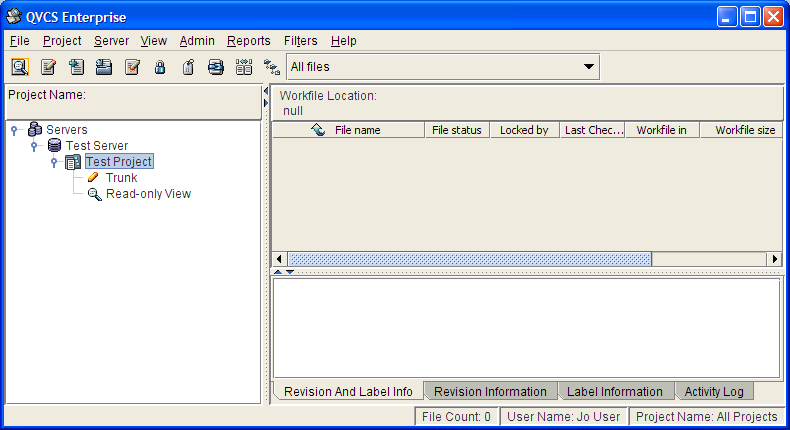
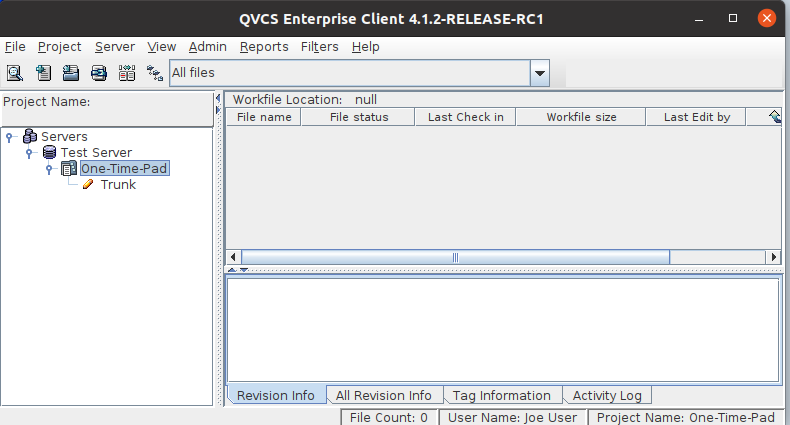
Documentation updates.

diff --git a/qvcse-server/src/main/resources/ServerWebSite/getstarted/clientbasics2.html b/qvcse-server/src/main/resources/ServerWebSite/getstarted/clientbasics2.html
@@ -20,7 +20,7 @@
                                 <hr>
                                 <h2><a name="add"></a>Adding Files to the Project</h2>
                                 <p>Before you can work with the files of your project, you need to make sure they are under version control. This may not have been done yet in the case of a new project. For the sake of this tutorial, let's say no one else has yet worked on your project.</p>
-                                <p>Since you provided a location for your work files in the previous step, any files in that directory will now show up in the file list pane on the right side of the window, each with a <img src="../images/fileuncontrl.png" alt="uncontrolled"> icon to show that they are not under version control.</p>
+                                <p>Since you provided a location for your work files in the previous step, any files in that directory will now show up in the file list pane on the right side of the window, each with a <img src="../images/workfile.png" alt="uncontrolled"> icon to show that they are not under version control.</p>
                                 <p>To add a selected file or group of files to the project, you can simply click the Add File <img src="../images/smadd.png" alt="Add File"> toolbar icon, and Enterprise will add the file(s) to the project without prompting you for any information. However, in the case of a new project, this method can prove tedious. Instead, right click on the Trunk, and select <b>Auto-Add Files/Directories...</b> from the context menu. This will bring up the following dialog:</p>
                                 <p align="center"><img src="../images/autoAddFilesToProject.png" alt="Auto-Add Files/Directories"></p>
                                 <p>Leaving the dialog blank will cause Enterprise to add only the files in the selected directory to the project. Probably, you will want to enable the first two checkboxes, causing Enterprise to add any subdirectories and their files to the project. Doing so will result in a project tree hierarchy that mimicks the hierarchy of the work file directory you've defined. You may also want to filter the process by file extension. These two checkboxes are mutually exclusive; enabling "Include Extensions" will allow you to list only those file extensions you want added to the project, while enabling "Exclude Extensions" will allow you to prevent Enterprise from adding the specified file extensions.</p>
@@ -28,14 +28,16 @@
                                 <p>Note that you can have Enterprise show a colored icon <img src="../images/filegreen.png" alt="green"> by going into the <b>Admin&rarr;User Preferences...</b> dialog and selecting "Use colored icons in file list" on the <b>Appearance</b> tab. The benefit of this is that if your copy of the work file is missing or otherwise out-of-synch with the latest revision on the server, Enterprise will display a <img src="../images/fileyellow.png" alt="yellow"> icon.</p>
                                 <hr>
                                 <h2><a name="display"></a>Looking at the New Project Files</h2>
-                                <p>Now that you have some <a href="../docs/glossary.html#archive">archive files</a> to work with, let's take a look at what Enterprise can tell you about your project.</p>
+                                <p>Now that you have some files to work with, let's take a look at what Enterprise can tell you about your project.</p>
                                 <p>You should already be somewhat familiar with the project and file panes of the window. In the file pane, you'll notice that in addition to the file name and icon, Enterprise will give you some basic information about the file's status. The "<a href="../docs/understandingFileStatus.html">File status</a>" column will tell you how your copy of the work file compares to the latest revision stored on the server; at the moment, all your files should read as "Current," meaning they are in synch with what's on the server. For each file, Enterprise will also list the last check-in time and the user who last edited the file; in this case, it should display your QVCS username and the time at which you added the files to the project, creating their initial revision.</p>
                                 <p>You can sort the files in the file pane based on any one of the columns by clicking on the column header. Clicking it again will reverse the sort order. For example, clicking on the "Last Check in" column will sort the files based on when their latest revision was checked in (though at this point there shouldn't be much difference).</p>
                                 <p>Another useful feature of the file pane is directory recursion. The recurse toolbar icon toggles between listing only those files in the current directory (when displaying the <img src="../images/smnorecurse.png" alt="no recurse"> icon), and listing all files in both the current directory and all of its subdirectories (when displaying the <img src="../images/smrecurse.png" alt="recurse"> icon). Recursion is useful when you want to get a quick look at what has changed within your project.</p>
-                                <p>Select one of your project files. In the revision information pane, you should see a single 1.0 revision entry. This is the revision that was created when you added the file to the project. Enterprise will also list information about when the revision was created and by whom. Each project file will have an "Initial Revision" listed in its revision information. Any <a href="../docs/glossary.html#label">labels</a> you apply to a file's revisions will also show up here.</p>
-                                <p>The "Revision Information" tab will show only the revision information, in selectable text format. This is the information that Enterprise uses when it generates a report. You can create an HTML file containing revision information for your project by selecting <b>Reports&rarr;Generate Report</b> from the menu bar. This will automatically create a simply-formatted HTML file listing the revision information of each file in the selected project. Any <a href="../docs/understandingFilters.html">filters</a> you have active will also filter the information in the report.</p>
-                                <p>The "Label Information" tab will show a list of who has applied what label to which revision. Finally, the "Activity Log" tab just shows the client-side requests and communication with the server.</p>
-                                <p>Naturally, these information fields will look a little sparse since you haven't yet done anything with your archive files. Let's move on to check out a file and store a revision.</p>
+                                <p>Select one of your project files. In the revision information pane, you should see a single 1.0 revision entry. This is the revision that was created when you added the file to the project. Enterprise will also list information about when the revision was created and by whom.</p>
+                                <p>The "Revision Info" tab will show only the revision information for the selected branch, in selectable text format. This is the information that Enterprise uses when it generates a report. You can create an HTML file containing revision information for your project by selecting <b>Reports&rarr;Generate Report</b> from the menu bar. This will automatically create a simply-formatted HTML file listing the revision information of each file in the selected project. Any <a href="../docs/understandingFilters.html">filters</a> you have active will also filter the information in the report.</p>
+                                <p>The "All Revision Info" tab will show a list of all revisions to the selected file across <i>all</i> branches.</p>
+                                <p>The "Tag Information" tab will show a list of all tags that have been applied to the selected branch.</p>
+                                <p>Finally, the "Activity Log" tab just shows the client-side requests and communication with the server.</p>
+                                <p>Naturally, these information fields will look a little sparse since you haven't yet done anything with your files. Let's move on to edit a file and store the file changes.</p>
                                 <hr>
                                 <p align="center"><a href="clientbasics1.html">&laquo; Previous</a> - <a href="clientbasics3.html">Next &raquo;</a></p>
                             </td></tr>

diff --git a/qvcse-server/src/main/resources/ServerWebSite/getstarted/clientbasics3.html b/qvcse-server/src/main/resources/ServerWebSite/getstarted/clientbasics3.html
@@ -18,21 +18,12 @@
                     <table class="content" cellspacing=0><tr class="content"><td class="content">
                                 <h1>QVCS Enterprise Tutorial: Client Application Basics</h1>
                                 <hr>
-                                <h2><a name="get"></a>Retrieving a Revision from a QVCS Archive</h2>
-                                <p>Let's first familiarize ourselves with the most basic QVCS tool: the get operation. When you perform a get on a file, the client will retrieve the requested revision from the associated QVCS archive on the server and save that to your copy of the work file. You will use this operation most frequently when updating your copy of a project file which another member of your team has been working on. You can also use it to obtain a copy of an older revision stored in the archive.</p>
-                                <p>Since you just added your files to the project, all of them are up-to-date, so you'll have to delete one of them in order to see that Enterprise does anything. Using Explorer or Finder, delete one of the files in your project.</p>
-                                <p>Go back to the client application and hit F5 to refresh the display. The file status of your file should now read as "Missing," to show that Enterprise cannot find the associated work file. However, it still has a copy of the file in its archives. To retrieve this copy, select the missing file and click the Get File <img src="../images/smget.png" alt="get"> toolbar icon. The client will fetch the latest revision (in this case the only revision, 1.0) from the server and copy it to the work file location. The file status will return to "Current." You can confirm that Enterprise retrieved the file using Explorer.</p>
-                                <p>As it's assumed you'll most often use the get operation to update your work files, performing a get from the toolbar will not bring up a dialog. To fetch any older revision from an archive, select <b>Get...</b> from either the <b>File</b> menu or the context menu that appears when you right click on a file.</p>
-                                <p>The get operation is also one of a few that Enterprise can perform on a project-wide level. If you need to update a number of files, or want to retrieve a labeled set of files, you can right click on a project node or directory and select <b>Get...</b> from the context menu. This will bring up a dialog allowing you to fetch the desired group of revisions.</p>
-                                <hr>
-                                <h2><a name="label"></a>Labeling a Set of Revisions</h2>
-                                <p>The other major operation you can perform at the project-level is <a href="../docs/understandingTags.html">labeling</a>. Labeling is a way of grouping together a set of files or revisions. For example, if you wanted to group all the revisions that made up release 2.1 of your product, you could apply a "2.1 release" label to these revisions. This is useful if you need to retrieve that same set of revisions at a later time, say if you need to create a patch build. You may have already started work on features for a later release, so you wouldn't want those changes to go into your patch build. Thus, you'd retrieve your labeled revision set, edit those files which needed fixing, and create your patch build based on the labeled revisions.</p>
-                                <p>Let's apply a label to the files you added to your project earlier. To use labels on a project-wide scale, right click on the project node or directory and select <b>Apply Label...</b> from the context menu. Doing so will bring up the following dialog:</p>
-                                <p align="center"><img src="../images/applyLabel.png" alt="Apply Label"></p>
-                                <p>Enabling the "Recurse Directories" checkbox will cause Enterprise to apply the label to any files it finds in any subdirectories of your project. When you enable the checkbox, you'll notice that the file pane display changes to show a recursed view. Enter an appropriate label string and click OK. Now if you select any of the files in your project, you'll see the label you just defined in the revision information pane.</p>
-                                <p>Note that this label is anchored to the 1.0 revision of each archive (since this is the revision currently in use for each archive). As you add other revisions to your archives, this label will remain with the 1.0 revision. If you wanted the label to move so that it would remain with the most recent revision in each archive, you would apply a <i>floating</i> label. This could be useful if you wanted to group together a set of files belonging to a release you were still developing.</p>
-                                <p>You can apply labels to individual files in a few different ways. The simplest is to select the file and use the Label File <img src="../images/smlabel.png" alt="label"> toolbar button. You can also elect to apply a label to a revision as you check it in.</p>
-
+                                <h2><a name="get"></a>Retrieving a Revision</h2>
+                                <p>Let's first familiarize ourselves with the most basic QVCS operation: the get operation. When you perform a 'get' on a file, the client will retrieve the requested revision from the server and save that revision to your copy of the work file. You will use this operation most frequently when updating your copy of a project file which another member of your team has been working on. You can also use it to obtain a copy of an older file revision stored in the database.</p>
+                                <p>Since you just added your files to the project, all of them are up-to-date, so you'll have to delete one of them in order to see that Enterprise does anything. To do this, select a file, right click to get the context menu, and then choose the 'Delete Workfile...' menu option. Select 'Yes' on the resulting dialog.</p>
+                                <p>Select the View/Refresh menu option to refresh the display. The file status of your file should now read as "Missing," to show that Enterprise cannot find the associated work file. However, it still has a copy of the file in the database. To retrieve this copy, select the missing file and click the Get File <img src="../images/smget.png" alt="get"> toolbar icon. The client will fetch the latest revision (in this case the only revision, 1.0) from the server and copy it to the work file location. The file status will return to "Current."</p>
+                                <p>As it's assumed you'll most often use the get operation to update your work files, performing a get from the toolbar will not bring up a dialog. To fetch any older revision from the server, select <b>Get...</b> from either the <b>File</b> menu or the context menu that appears when you right click on a file.</p>
+                                <p>The get operation is also one of a few that Enterprise can perform on a project-wide or directory level. If you need to update a number of files, you can right click on a project node or directory and select <b>Get...</b> from the context menu. This will bring up a dialog allowing you to get the files.</p>
                                 <hr>
                                 <p align="center"><a href="clientbasics2.html">&laquo; Previous</a> - <a href="clientbasics4.html">Next &raquo;</a></p>
                             </td></tr>

diff --git a/qvcse-server/src/main/resources/ServerWebSite/docs/understandingFilters.html b/qvcse-server/src/main/resources/ServerWebSite/docs/understandingFilters.html
@@ -22,7 +22,7 @@
                                 <p>Selecting that menu option will display the 'Maintain Filter Collections' dialog shown here:</p>
                                 <p align="center"><img src="../images/maintainFilters.png" alt="maintain filters"></p>
                                 <p>Filters are always applied at the client. This means that the server always sends information on all the files within a selected directory to the client and the client, based on the active filter, decides whether information about that file should be displayed or not.</p>
-                                <p>There are 4 'built-in' filter collections. You are not allowed to edit the 'All files' filter collection. You create your own filter collection by clicking on the 'New Collection' button. You can name your filter collection any thing you want, provided that filter collection name is not already in use. Clicking the 'New Collection' button will display the 'Define Filter Collection Name' dialog:</p>
+                                <p>There are 5 'built-in' filter collections. You are not allowed to edit the 'All files' filter collection or the 'By Commit id' filter. You create your own filter collection by clicking on the 'New Collection' button. You can name your filter collection any thing you want, provided that filter collection name is not already in use. Clicking the 'New Collection' button will display the 'Define Filter Collection Name' dialog:</p>
                                 <p align="center"><img src="../images/defineFilterCollectionName.png" alt="define filter collection name"></p>
                                 <p>Each filter collection can be associated with a specific project, or it can be for use by all projects. The build-in filters are for use by all projects.</p>
                                 <p>As you add specific filters to your filter collection, you can choose whether the filter is an 'AND' filter or whether it is an 'OR' filter. Filters that are identified as 'AND' filters must <i>all</i> pass in order for the file to be displayed. In addition, 'AND' filters are applied before any of the 'OR' filters are tested.</p>
@@ -36,19 +36,10 @@
                                 <h3>REVISION DESCRIPTION FILTER TYPES:</h3>
                                 <p><u>Revision description regular expression</u>: Use this filter type as a way to search through all revision descriptions for a string that matches the regular expression that you define. See this <a href="http://java.sun.com/docs/books/tutorial/essential/regex/">Sun regular expression tutorial</a> for some information on the formatting of regular expressions.</p>
                                 <p><u>Exclude revision description regular expression</u>: Use this filter type as a way to exclude all revisions that matches the regular expression that you define. See this <a href="http://java.sun.com/docs/books/tutorial/essential/regex/">Sun regular expression tutorial</a> for some information on the formatting of regular expressions.</p>
-                                <h3>LABEL FILTER TYPES:</h3>
-                                <p><u>After Label</u>: Use this filter type to show those files that have revisions that were created after the label defined by the filter data. If the file does not have the label, then it will not pass the filter.</p>
-                                <p><u>After label (include if label is missing)</u>: Use this filter type to show those files that have revisions that were created after the label defined by the filter data. In contract to the ?After Label? filter type, if the file does not have the label, then it will pass the filter, on the assumption that the file itself was created after the label had been applied.</p>
-                                <p><u>With Label</u>: Use this filter type to show those files that have been labeled with the label string defined by the filter data.</p>
-                                <p><u>With label and all revisions</u>: Use this filter type when you want to include all the revisions within a file that has a specific label. Typically, you would combine this filter with another filter where the purpose of this filter is to limit the set of files that pass the filter conditions, and the other filter constrains the set of revisions that get displayed.</p>
-                                <p><u>Without Label</u>: Use this filter type to show those files that have not been labeled with the label string defined by the filter data.</p>
-                                <p><u>Up to label</u>: Use this filter type to show those files that have revisions that were created before the label defined by the filter data. If the file does not have the label, then it will not pass the filter.</p>
                                 <h3>DATE FILTER TYPES:</h3>
                                 <p><u>Checked in after</u>: Use this filter type to show those files that have revisions that were created after the date defined by the filter data. The date format should match the default date format defined by your locale. The generated report will include only those revisions created after the date you define.</p>
                                 <p><u>Checked in before</u>: Use this filter to show those files that have revisions that were created before the date defined by the filter data. The date format should match the default date format defined by your locale. The generated report will include only those revisions created before the date you define.</p>
                                 <h3>FILE PROPERTIES FILTER TYPES:</h3>
-                                <p><u>Include Locked by</u>: Use this filter to show those files that have any revisions that are currently locked by the user whose QVCS username is defined by the filter data.</p>
-                                <p><u>Exclude Locked by</u>: Use this filter to exclude those files that have any revisions that are currently locked by the user whose QVCS username is defined by the filter data.</p>
                                 <p><u>Include File Status</u>: Use this filter to include only those files that have a 'File status' value that matches the string that you define here. For example, to create a filter that would show only 'Stale' files, you would use this type of filter with a filter value of 'Stale'.</p>
                                 <p><u>Exclude File Status</u>: Use this filter to exclude those files that have a 'File status' value that matches the string that you define here. For example, to create a filter that would not show 'Current' files, you would use this type of filter with a filter value of 'Current'.</p>
                                 <p><u>Exclude uncontrolled files</u>: Use this filter to exclude files that are not under version control.</p>

diff --git a/qvcse-server/src/main/resources/ServerWebSite/getstarted/clientbasics1.html b/qvcse-server/src/main/resources/ServerWebSite/getstarted/clientbasics1.html
@@ -23,11 +23,8 @@
                                     <li class="news"><a href="clientbasics2.html#add">Adding Files to the Project</a></li>
                                     <li class="news"><a href="clientbasics2.html#display">Understanding the Display</a></li>
                                     <li class="news"><a href="clientbasics3.html#get">Retrieving a Revision from a QVCS Archive</a></li>
-                                    <li class="news"><a href="clientbasics3.html#label">Labeling a Set of Revisions</a></li>
                                     <li class="news"><a href="clientbasics4.html#checkout">Checking Out a Revision from the Archive</a></li>
-                                    <li class="news"><a href="clientbasics4.html#keywords">Using Keywords within a Text File</a></li>
                                     <li class="news"><a href="clientbasics5.html#checkin">Checking In a New Revision</a></li>
-                                    <li class="news"><a href="clientbasics5.html#copyright">Changing the Copyright Message</a></li>
                                 </ul>
 
                                 <hr>
@@ -37,10 +34,10 @@
                                 <p>To define a server, right click on the "Servers" node and select the <b>Add Server...</b> option from the context menu. Doing so will bring up the following dialog:</p>
                                 <p align="center"><img src="../images/clientServerProperties.png" alt="Server Properties"></p>
                                 <p>You will need to define a name for your server (it does not have to match whatever name the server was given when defined <a href="readme2.html">in the Admin application</a>), and identify the IP address of the machine running the server. Once you click OK, the new server node will appear below the Servers icon in the project pane.</p>
-                                <p>Clicking on your newly defined server will bring up a login dialog. Once you've supplied a valid username and password (these should have been defined for you <a href="readme4.html">by the Admin</a>), you will be logged into the server, and the client will display any projects to which you have access. Clicking on a project will expand it to show the <a href="../docs/glossary.html#trunk">trunk</a> and any <a href="../docs/understandingBranches.html">views</a> that may have been defined.</p>
+                                <p>Clicking on your newly defined server will bring up a login dialog. Once you've supplied a valid username and password (these should have been defined for you <a href="readme4.html">by the Admin</a>), you will be logged into the server, and the client will display any projects to which you have access. Clicking on a project will expand it to show the <a href="../docs/glossary.html#trunk">trunk</a> and any <a href="../docs/understandingBranches.html">branches</a> that may have been defined.</p>
                                 <p align="center"><img src="../images/clientProject.png" alt="Client Application"></p>
-                                <p>If you click on either the trunk or any views, the client will prompt you to define the location of your <a href="../docs/glossary.html#workfile">work files</a>. This is the top directory where you will store your own copies of the files in a project. Any time you perform a Get operation on a file under version control, the client will retrieve the file information from the server and save a copy of the file to your defined workfile location, potentially updating any pre-existing copy. Conversely, when you make changes to your work files, QVCS can read them in and store them as a new revision in its archives.</p>
-                                <p>For the sake of this tutorial, you just need to be sure to define a directory with a few existing files that you can play around with. (If you select a temporary test location, your work file location can be redefined at a later time by right clicking on the trunk and selecting <b>Define View Properties...</b> from the context menu.)</p>
+                                <p>If you click on either the trunk or any branches, the client will prompt you to define the location of your <a href="../docs/glossary.html#workfile">work files</a>. This is the top directory where you will store your own copies of the files in a project. Any time you perform a Get operation on a file under version control, the client will retrieve the file information from the server and save a copy of the file to your defined workfile location, potentially updating any pre-existing copy. Conversely, when you make changes to your work files, QVCS can read them in and store them as a new revision in the database.</p>
+                                <p>For the sake of this tutorial, you just need to be sure to define a directory with a few existing files that you can play around with. (If you select a temporary test location, your work file location can be redefined at a later time by right clicking on the trunk and selecting <b>Define Workfile Location...</b> from the context menu.)</p>
                                 <p>Now that you've set up your client application to view your project, you can start using Enterprise's version control tools to manage your files.</p>
                                 <hr>
                                 <p align="center">&laquo; Previous - <a href=clientbasics2.html>Next &raquo;</a></p>

diff --git a/qvcse-server/src/main/resources/ServerWebSite/docs/understandingRolesAndActions.html b/qvcse-server/src/main/resources/ServerWebSite/docs/understandingRolesAndActions.html
@@ -36,23 +36,14 @@
                                     <tr><td>Delete directory</td><td align="center">PROJECT_ADMIN</td></tr>
                                     <tr><td>Maintain view</td><td align="center">PROJECT_ADMIN</td></tr>
                                     <tr><td>Show cemetery</td><td align="center">CEMETERY_ADMIN</td></tr>
-                                    <tr><td>Break lock</td><td align="center">PROJECT_ADMIN</td></tr>
                                     <tr><td>Get file</td><td align="center">READER, DEVELOPER</td></tr>
                                     <tr><td>Get directory</td><td align="center">READER, DEVELOPER</td></tr>
                                     <tr><td>Check out</td><td align="center">WRITER, DEVELOPER</td></tr>
                                     <tr><td>Check in</td><td align="center">WRITER, DEVELOPER</td></tr>
-                                    <tr><td>Lock</td><td align="center">WRITER, DEVELOPER</td></tr>
-                                    <tr><td>Unlock</td><td align="center">WRITER, DEVELOPER</td></tr>
-                                    <tr><td>Label</td><td align="center">WRITER, DEVELOPER</td></tr>
-                                    <tr><td>Label directory</td><td align="center">WRITER, DEVELOPER</td></tr>
-                                    <tr><td>Label at checkin</td><td align="center">WRITER, DEVELOPER</td></tr>
-                                    <tr><td>Remove label</td><td align="center">WRITER, DEVELOPER</td></tr>
-                                    <tr><td>Remove label from directory</td><td align="center">WRITER, DEVELOPER</td></tr>
                                     <tr><td>Rename file</td><td align="center">WRITER, DEVELOPER</td></tr>
                                     <tr><td>Move file</td><td align="center">WRITER, DEVELOPER</td></tr>
                                     <tr><td>Delete file</td><td align="center">WRITER, DEVELOPER</td></tr>
                                     <tr><td>Set file attributes</td><td align="center">WRITER, DEVELOPER</td></tr>
-                                    <tr><td>Set comment prefix</td><td align="center">WRITER, DEVELOPER</td></tr>
                                     <tr><td>Set file description</td><td align="center">WRITER, DEVELOPER</td></tr>
                                     <tr><td>Set revision description</td><td align="center">WRITER, DEVELOPER</td></tr>
                                     <tr><td>Create archive</td><td align="center">WRITER, DEVELOPER</td></tr>

diff --git a/qvcse-server/src/main/resources/ServerWebSite/new.html b/qvcse-server/src/main/resources/ServerWebSite/new.html
@@ -20,18 +20,20 @@
                     <table class="content" cellspacing=0>
                         <tr class="content">
                             <td class="content">
-                                <h1>QVCS-Enterprise 4.1.1-SNAPSHOT</h1>
+                                <h1>QVCS-Enterprise 4.1.2-RELEASE-RC1</h1>
                                 <h2 class="news">Changes:</h2>
                                 <ul class="news">
                                     <li class="news">Drop Derby support.</li>
                                     <li class="news">All revision data is now stored in a Postgresql database.</li>
                                     <li class="news">File moves are via a dialog instead of drag-and-drop.</li>
-                                    <li class="news">Branch support improved.</li>
+                                    <li class="news">Branch support completely redesigned. There are now 4 different branch types: Trunk, Feature, Release, and Read-only.</li>
                                     <li class="news">Branch anchor date shown for read-only and release branches.</li>
                                     <li class="news">A new Tag Info tab lists the tags that are defined for the active branch.</li>
                                     <li class="news">A new 'All Revision Info' tab lists <i>all</i> the revisions across all branches for the selected file.</li>
                                     <li class="news">The revision numbering scheme is completely different.</li>
                                     <li class="news">The anchor icon differs for different branch types.</li>
+                                    <li class="news">Added a commit id type of file filter which allows easy viewing of the group of files that share the same commit id.</li>
+                                    <li class="news">Support 'moveable' read-only branches. These rely on moveable tags.</li>
                                 </ul>
                                 <hr>
                                 <h1>QVCS-Enterprise 3.1.4-SNAPSHOT</h1>

diff --git a/qvcse-server/src/main/resources/ServerWebSite/docs/qvcsanttask.html b/qvcse-server/src/main/resources/ServerWebSite/docs/qvcsanttask.html
@@ -23,13 +23,9 @@
                                 <p>The QVCS-Enterprise custom ant task allows the user of <a href="http://ant.apache.org/">ant</a> to:</p>
                                 <ul class="news">
                                     <li class="news">Get the latest revisions of a directory tree, a single directory, or a single file from the QVCS-Enterprise Server.</li>
-                                    <li class="news">Get a labeled set of revisions in a directory tree, a single directory, or a single file from the QVCS-Enterprise Server.</li>
-                                    <li class="news">Apply a label to the files within a directory tree, a single directory, or a single file.</li>
                                     <li class="news">Check in your changes for an entire directory tree, a single directory, or a single file. Only files that you have changed will get checked in.</li>
                                     <li class="news">Check in your changes for an entire directory tree, a single directory, or a single file. Only files that you have changed will get checked in.</li>
                                     <li class="news">Check out all the files for an entire directory tree, a single directory, or just a single file.</li>
-                                    <li class="news">Lock all the files for an entire directory tree, a single directory, or just a single file.</li>
-                                    <li class="news">Unlock all the files that you have locked in a directory tree, in a single directory, or just a single file.</li>
                                     <li class="news">Move a single file from one directory to another. This moves the archive location only. The workfile is <b><u>not</u></b> moved.</li>
                                     <li class="news">Rename a single file. This renames the archive only. The workfile is <b><u>not</u></b> renamed.</li>
                                     <li class="news">Report on files, showing the file's tip revision, checkin time, revision author, and file status.</li>

diff --git a/qvcse-server/src/main/resources/ServerWebSite/features.html b/qvcse-server/src/main/resources/ServerWebSite/features.html
@@ -35,11 +35,9 @@
                                     <li class="news">Create a variety of reports including:
                                         <ul class="news"><li class="news">report all locked revisions</li>
                                             <li class="news"><b>TODO</b> -- need to update this list...</li>
-                                            <li class="news">report all revisions locked by an individual, or set of individuals</li>
                                             <li class="news">report all revisions created after a release</li>
                                             <li class="news">report all revisions created by a single individual, or set of individuals</li>
                                             <li class="news">report revisions created between two dates</li>
-                                            <li class="news">report all revisions that have a given label</li>
                                             <li class="news">report any AND'd combination of the above</li></ul></li>
                                     <li class="news">Show at a glance all local files that are different from the latest checked in revision.</li>
                                     <li class="news">Create a .qvcsosignore file on the client to tell the client which files should be ignored.</li>

diff --git a/qvcse-server/src/main/resources/ServerWebSite/getstarted/readme3.html b/qvcse-server/src/main/resources/ServerWebSite/getstarted/readme3.html
@@ -30,7 +30,7 @@
                                 <p>This step is optional, but we <i>strongly</i> recommend that you change the administrator password in order to secure your system.</p>
                                 <p>Select the ADMIN user node on the right side of the screen. Right click, and select the <b>Change password</b> menu item.</p>
                                 <p>On the resulting Change User Password dialog, enter a new password. The OK button will only let you proceed if both the "New Password" and the "Confirm New Password" values are the same.</p>
-                                <p><i><b>Make sure to remember this new password.</b> If you lose it, it will be <u><b>very tedious</b></u> to re-build the authentication store and re-add all the other users.</i></p>
+                                <p><i><b>Remember this new password.</b> If you lose it, you will need to use Postgres utilities to delete the ADMIN user in the user table, and then restart the server. This will reset the ADMIN password to 'ADMIN'.</i></p>
                                 <hr>
                                 <p align="center"><a href="readme2.html">&laquo; Previous</a> - <a href="readme4.html">Next &raquo;</a></p>
                             </td></tr>

diff --git a/qvcse-server/src/main/resources/ServerWebSite/getstarted/readme4.html b/qvcse-server/src/main/resources/ServerWebSite/getstarted/readme4.html
@@ -23,7 +23,7 @@
                                 <p>Select the top node in the user pane (it should have the name of the server that you defined in Step 4). Right click and select the <b>Add user</b> menu option.</p>
                                 <p>Fill out the fields in the resulting dialog, and click OK. Note that you'll need to remember the password that you enter here. (The user can separately change their password at a later time).</p>
                                 <p align="center"><img src="../images/addUserToServer.png" alt="add user to server"></p>
-                                <p>Repeat this process for as many users as you expect to use this server. (Though other users can be added later if necessary).</p>
+                                <p>Repeat this process for as many users as you expect to use this server. (Other users can be added later as needed).</p>
                                 <hr>
                                 <h2>Step 8: Define a New Project:</h2>
                                 <p>You now need to define a project. A server can have any number of projects, but it must have at least one project in order for the server to provide any version control functions.</p>

diff --git a/qvcse-server/src/main/resources/ServerWebSite/docs/faq.html b/qvcse-server/src/main/resources/ServerWebSite/docs/faq.html
@@ -49,7 +49,7 @@
                                     <li class="news">Allow multiple lines of development to proceed at the same time for a single file.</li>
                                     <li class="news">Audit the development process so you can keep track of who changes which file, when they make the change, and what changes they make.</li>
                                     <li class="news">Reduce storage requirements.</li>
-                                    <li class="news">Labeling a group of file revisions for a product release.</li>
+                                    <li class="news">Create a tag to identify the set of file revisions that compose a product release.</li>
                                     <li class="news">Create reports to show what files have changed between product releases.</li></ul>
                                 <p class="faqa">This list is not exhaustive, but it gives you a sample of the kinds of things that QVCS can do for you. QVCS lets you make changes to the files of your project with the confidence that you can go back to previous snapshots of those files if you need to.
                                 <p><hr width=500><p>

diff --git a/qvcse-server/src/main/resources/ServerWebSite/docs/understandingMerge.html b/qvcse-server/src/main/resources/ServerWebSite/docs/understandingMerge.html
@@ -2,7 +2,7 @@
     <head>
         <script src="../script.js" type="text/javascript"></script>
         <link rel="stylesheet" type="text/css" href="../styles.css">
-        <title>QVCS-Enterprise Server - Understanding Views</title>
+        <title>QVCS-Enterprise Server - Understanding Merge</title>
     </head>
     <body onload="subMenuInit();">
 
